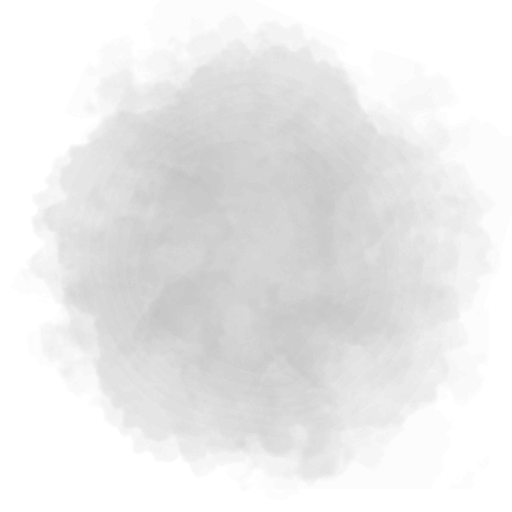
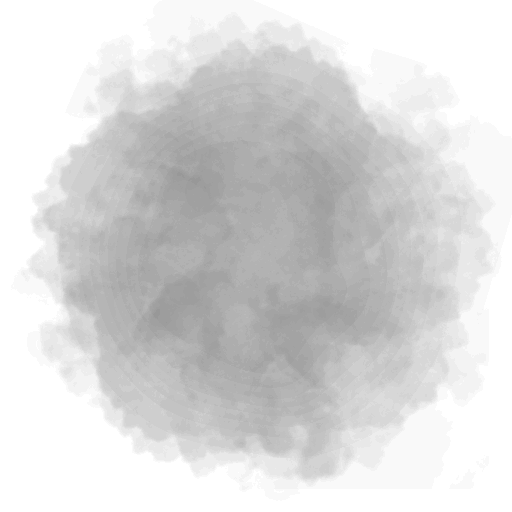
render | added grass damage

diff --git a/src/engine/grass.cpp b/src/engine/grass.cpp
@@ -14,7 +14,7 @@ FVARP(grassmargin, 0, 0.25f, 32);
 FVAR(grassmarginfade, 0, 0, 1);
 VARR(grassscale, 1, 2, 64);
 CVAR0R(grasscolour, 0xFFFFFF);
-FVAR(grasstest, 0, 0.6f, 1);
+FVAR(grasstest, 0, 0.7f, 1);
 
 VARP(grasslod1, 8, 192, 10000);
 VAR(grasslodtransition, 0, 64, 256);
@@ -27,6 +27,41 @@ VAR(grassanimmillis, 1, 3000, 60000);
 FVAR(grassanimscale, 0, 0.2f, 1);
 FVAR(grasswindangle, 0, 0, 360);
 FVAR(grasswindscale, 0, 0.015f, 1);
+VARP(grassregrowmillis, 100, 10000, 15000);
+VAR(grassburnstains, 1, 2, 16);
+CVAR0R(grassburncolour, 0x3F3F3F);
+FVAR(grassburnpadding, -100, -40, 100);
+FVAR(grassburnvariation, 0, 0.3f, 1);
+
+enum { MAXGRASSDAMAGEPARAMS = 64, MAXGRASSDAMAGES = 4096 };
+
+static uint grasshash(uint n);
+static uint grassdamageseed = 0;
+
+struct grassdamage
+{
+    vec center;
+    float radius, seed;
+    int regrowstart;
+};
+
+static vector<grassdamage> grassdamages;
+
+void addgrassdamage(const vec &center, float radius, int lifetime)
+{
+    if(grassdamages.length() >= MAXGRASSDAMAGES) grassdamages.remove(0);
+    grassdamage &damage = grassdamages.add();
+    damage.center = center;
+    damage.radius = radius;
+    damage.seed = (grasshash(++grassdamageseed) & 0xFFFFFFu)/float(0x1000000u);
+    damage.regrowstart = lastmillis + max(lifetime, 0);
+}
+
+void cleargrassdamage()
+{
+    grassdamages.setsize(0);
+    grassdamageseed = 0;
+}
 
 struct grassinstance
 {
@@ -121,6 +156,7 @@ void buildgrass(vtxarray *va)
     loopv(va->grasstris)
     {
         const grasstri &g = va->grasstris[i];
+        Slot *slot = lookupvslot(g.texture, false).slot;
         float minx = g.v[0].x, maxx = minx, miny = g.v[0].y, maxy = miny;
         loopj(g.numv)
         {
@@ -174,6 +210,7 @@ void buildgrass(vtxarray *va)
             patch.count = count;
             patch.texture = g.texture;
             patch.blend = g.blend;
+            patch.slot = slot;
             patch.blendpos = ivec(g.center);
         }
         if(full) break;
@@ -310,7 +347,41 @@ static void setgrassparams(Texture *tex, float density, float fade)
     LOCALPARAMF(grasswindspatial, grasswindscale, grassmargin, grassmarginfade, 0.0f);
     bvec color(grasscolour);
     LOCALPARAMF(grasscolourparams, color.x/255.0f, color.y/255.0f, color.z/255.0f, 1.0f);
+    bvec burncolor(grassburncolour);
+    LOCALPARAMF(grassburncolourparams, burncolor.x/255.0f, burncolor.y/255.0f, burncolor.z/255.0f);
     LOCALPARAMF(grasstest, grasstest);
+}
+
+static void updategrassdamage()
+{
+    loopvrev(grassdamages) if(lastmillis - grassdamages[i].regrowstart >= grassregrowmillis) grassdamages.removeunordered(i);
+}
+
+static void setgrassdamageparams(const grasspatch &patch)
+{
+    vec4 params[MAXGRASSDAMAGEPARAMS];
+    vec2 states[MAXGRASSDAMAGEPARAMS];
+    int count = 0;
+    loopvrev(grassdamages)
+    {
+        const grassdamage &damage = grassdamages[i];
+        float maxradius = max(damage.radius*(1 + grassburnvariation) + grassburnpadding, 0.0f),
+              reach = patch.radius + maxradius;
+        if(maxradius <= 0) continue;
+        if(patch.center.squaredist(damage.center) > reach*reach) continue;
+
+        float growth = lastmillis <= damage.regrowstart ? 0.0f :
+                       min((lastmillis - damage.regrowstart)/float(grassregrowmillis), 1.0f);
+        params[count] = vec4(damage.center, damage.radius);
+        states[count++] = vec2(growth, damage.seed);
+        if(count >= MAXGRASSDAMAGEPARAMS) break;
+    }
+    LOCALPARAMF(grassdamagecontrol, float(count), float(grassburnstains), grassburnpadding, grassburnvariation);
+    if(count)
+    {
+        LOCALPARAMV(grassdamageparams, params, count);
+        LOCALPARAMV(grassdamagestates, states, count);
+    }
 }
 
 static void drawgrasslod(const grasspatch &patch, Texture *tex, int lod, float density, float fade)
@@ -325,6 +396,7 @@ static void drawgrasslod(const grasspatch &patch, Texture *tex, int lod, float d
 
 static void drawgrasspatchlod(const grasspatch &patch, Texture *tex, float dist, float densityscale)
 {
+    setgrassdamageparams(patch);
     float transition = min(float(grasslodtransition), float(grasslod1));
     if(transition > 0 && dist >= grasslod1 - transition && dist <= grasslod1 + transition)
     {
@@ -343,6 +415,7 @@ static void rendergrasspatches(vtxarray *vas, bool shadow, int cascade)
     Shader *shader = shadow ? grassshadowshader : grassshader;
     if(!shader) return;
 
+    updategrassdamage();
     initgrassmeshes();
     setupgrassattribs();
     glDisable(GL_CULL_FACE);
@@ -372,7 +445,7 @@ static void rendergrasspatches(vtxarray *vas, bool shadow, int cascade)
             }
             else if(isfoggedsphere(radius, patch.center)) continue;
 
-            Slot &slot = *lookupvslot(patch.texture, false).slot;
+            Slot &slot = *patch.slot;
             if(!slot.grasstex)
             {
                 if(!slot.grass) continue;
@@ -423,6 +496,7 @@ void rendergrassshadow(int cascade)
 
 void cleanupgrass()
 {
+    cleargrassdamage();
     if(grassmeshvbo)
     {
         glDeleteBuffers_(1, &grassmeshvbo);

diff --git a/src/engine/stain.cpp b/src/engine/stain.cpp
@@ -419,9 +419,9 @@ struct stainrenderer
     float stainradius, stainu, stainv;
     bvec4 staincolor;
 
-    void addstain(const vec &center, const vec &dir, float radius, const bvec &color, int info)
+    int addstain(const vec &center, const vec &dir, float radius, const bvec &color, int info)
     {
-        if(dir.iszero()) return;
+        if(dir.iszero()) return 0;
 
         bbmin = ivec(center).sub(radius);
         bbmax = ivec(center).add(radius).add(1);
@@ -447,10 +447,12 @@ struct stainrenderer
 
         loopi(NUMSTAINBUFS) verts[i].lastvert = verts[i].endvert;
         gentris(worldroot, ivec(0, 0, 0), worldsize>>1);
+        int added = 0;
         loopi(NUMSTAINBUFS)
         {
             stainbuffer &buf = verts[i];
             if(buf.endvert == buf.lastvert) continue;
+            added |= 1<<i;
 
             if(dbgstain)
             {
@@ -467,6 +469,7 @@ struct stainrenderer
             d.endvert = buf.endvert;
             buf.addstain(d);
         }
+        return added;
     }
 
     void gentris(cube &cu, int orient, const ivec &o, int size, materialsurface *mat = NULL, int vismask = 0)
@@ -762,6 +765,7 @@ stainrenderer stains[] =
 void initstains()
 {
     if(initing) return;
+    cleargrassdamage();
     loopi(sizeof(stains)/sizeof(stains[0])) stains[i].init(maxstaintris);
     loopi(sizeof(stains)/sizeof(stains[0])) stains[i].preload();
 }
@@ -769,6 +773,7 @@ void initstains()
 void clearstains()
 {
     loopi(sizeof(stains)/sizeof(stains[0])) stains[i].clearstains();
+    cleargrassdamage();
 }
 
 VARNP(stains, showstains, 0, 1, 1);
@@ -810,7 +815,9 @@ void addstain(int type, const vec &center, const vec &surface, float radius, con
 {
     if(!showstains || type<0 || (size_t)type>=sizeof(stains)/sizeof(stains[0]) || center.dist(camera1->o) - radius > maxstaindistance) return;
     stainrenderer &d = stains[type];
-    d.addstain(center, surface, radius, color, info);
+    if(d.addstain(center, surface, radius, color, info)&((1<<STAINBUF_OPAQUE)|(1<<STAINBUF_TRANSPARENT)) && surface.z > 0 &&
+       (type == STAIN_PLASMA_SCORCH || type == STAIN_EXPL_SCORCH || type == STAIN_BURN))
+        addgrassdamage(center, radius, d.timetolive >= 0 ? d.timetolive : stainfade);
 }
 
 void genstainmmtri(stainrenderer *s, const vec v[3])

diff --git a/src/engine/engine.h b/src/engine/engine.h
@@ -842,6 +842,8 @@ extern void clearmainmenu();
 extern void loadgrassshaders();
 extern void rendergrass();
 extern void rendergrassshadow(int cascade);
+extern void addgrassdamage(const vec &center, float radius, int lifetime);
+extern void cleargrassdamage();
 extern void cleanupgrass();
 
 // blendmap

diff --git a/src/engine/octa.h b/src/engine/octa.h
@@ -79,13 +79,16 @@ struct grasstri
     ushort texture, blend;
 };
 
+struct Slot;
+
 struct grasspatch
 {
     vec center;
     float radius;
+    Slot *slot;
     int offset, count;
-    ushort texture, blend;
     ivec blendpos;
+    ushort texture, blend;
 };
 
 struct occludequery
